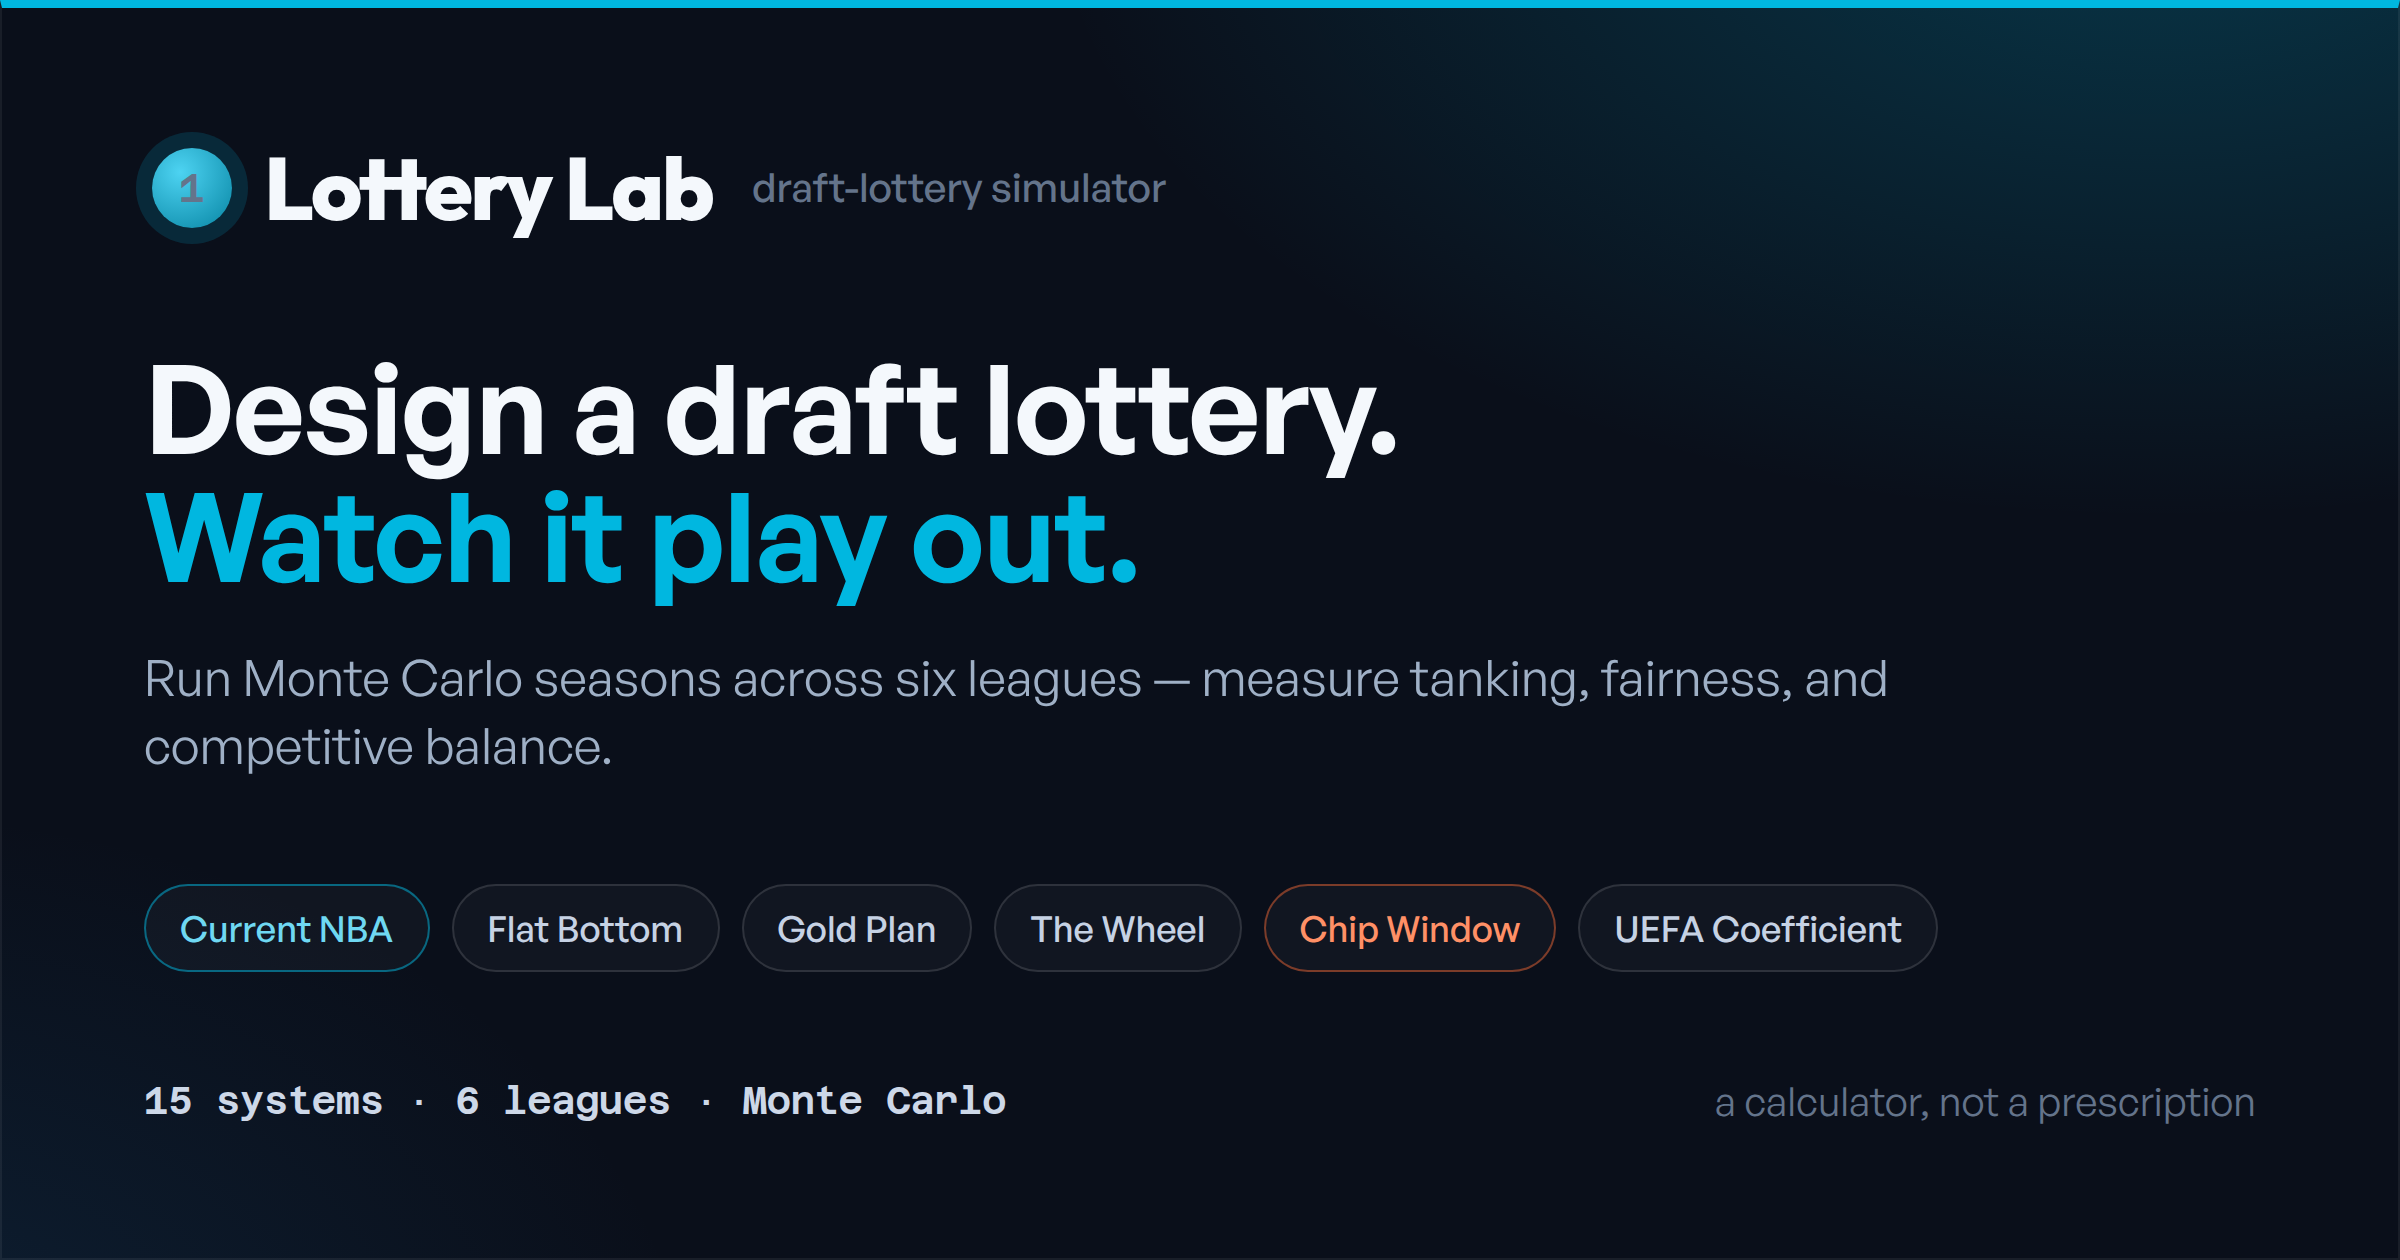
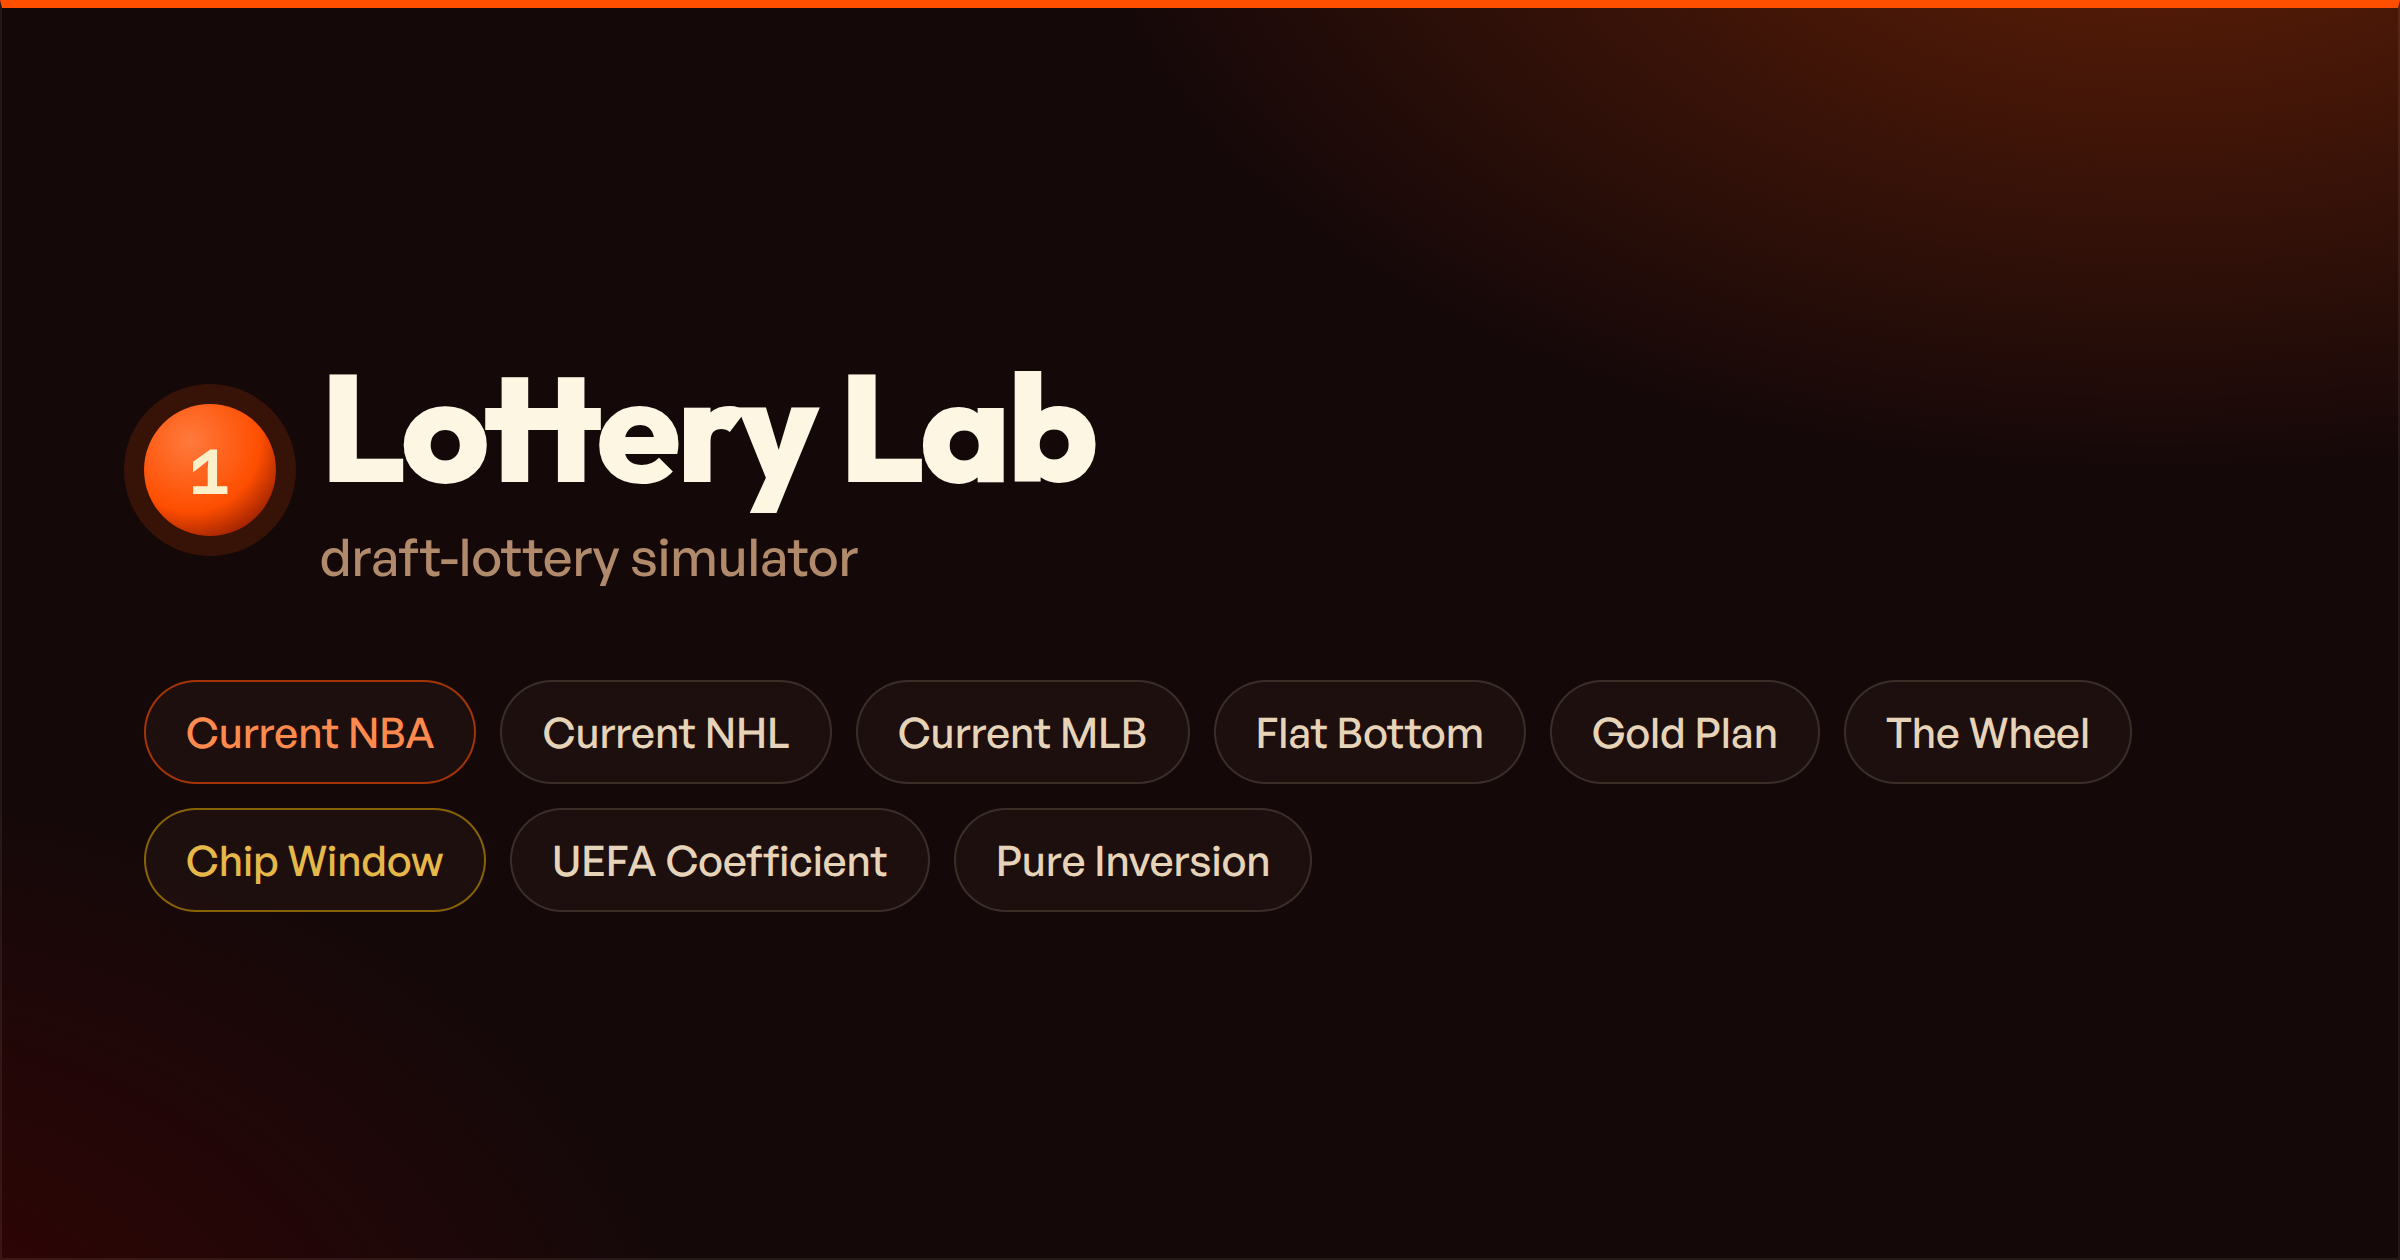
Lottery Lab palette + strip marketing/helper copy
Give Lottery Lab its own identity within the shared design system: a warm
palette of flame-orange (#fe4e00) accent, black-cherry (#570000) deep, and
lemon-chiffon (#faf0ca) highlight — retheming light (warm paper) and dark
(deep cherry-black) token sets, chart series colors, chip/pick ramps, native
range sliders (accent-color), the favicon, and the OG card.

Remove the marketing/punch/helper copy per request: the per-page hero
headlines and subtitles, the 'a calculator, not a prescription' tagline, the
'15 systems…' stat line, the verbose field hints and chart captions, and the
page intro paragraphs. Meta/OG descriptions trimmed to plain factual copy;
the OG card is now just the wordmark + system chips. Also fixes the Historical
copy to 'any real sports draft lottery'.

tsc clean; build verified; light + dark themes checked live.

Claude-Session: https://claude.ai/code/session_013eqjP4RGDTyh5RQjt1m6EY

diff --git a/src/ui/theme.css b/src/ui/theme.css
@@ -29,13 +29,17 @@
   --r-lg: 16px;
   --r-pill: 999px;
 
-  /* Brand + semantics (stable across themes) */
-  --brand: #00b7e0;
-  --brand-2: #1a659e;
-  --tangerine: #ff6b35;
-  --peach: #f7c59f;
-  --beige: #efefd0;
-  --steel: #004e89;
+  /* Brand + semantics (stable across themes) — Lottery Lab palette:
+     flame-orange accent, black-cherry deep, lemon-chiffon warm highlight. */
+  --brand: #fe4e00; /* flame-orange */
+  --brand-2: #570000; /* black-cherry */
+  --flame: #fe4e00;
+  --cherry: #570000;
+  --chiffon: #faf0ca; /* lemon-chiffon */
+  --tangerine: #fe4e00;
+  --peach: #faf0ca;
+  --beige: #faf0ca;
+  --steel: #570000;
   --baltic: #1a659e;
 
   --transition: 180ms cubic-bezier(0.4, 0, 0.2, 1);
@@ -45,76 +49,82 @@
 :root,
 :root[data-theme='light'] {
   color-scheme: light;
-  --bg: #f5f7fa;
-  --bg-grad: radial-gradient(1200px 600px at 100% -10%, rgba(0, 183, 224, 0.06), transparent 60%);
-  --surface: #ffffff;
-  --surface-2: #f1f4f8;
-  --surface-3: #e9edf3;
-  --border: rgba(15, 23, 42, 0.09);
-  --border-strong: rgba(15, 23, 42, 0.16);
-  --text: #0f172a;
-  --text-2: #4b5563;
-  --text-3: #8a97a8;
-  --brand-ink: #0785a3;
-  --success: #059669;
-  --success-bg: rgba(5, 150, 105, 0.1);
-  --warning: #d97706;
-  --warning-bg: rgba(217, 119, 6, 0.12);
-  --error: #e11d48;
-  --error-bg: rgba(225, 29, 72, 0.1);
-  --shadow-sm: 0 1px 2px rgba(15, 23, 42, 0.06), 0 1px 3px rgba(15, 23, 42, 0.05);
-  --shadow-md: 0 4px 12px rgba(15, 23, 42, 0.08), 0 2px 4px rgba(15, 23, 42, 0.04);
-  --shadow-lg: 0 12px 32px rgba(15, 23, 42, 0.12);
+  --bg: #fbf7ee; /* warm paper (lemon-chiffon tint) */
+  --bg-grad: radial-gradient(1200px 600px at 100% -10%, rgba(254, 78, 0, 0.07), transparent 60%);
+  --surface: #fffdf8;
+  --surface-2: #f6efe0;
+  --surface-3: #efe6d3;
+  --border: rgba(87, 0, 0, 0.1);
+  --border-strong: rgba(87, 0, 0, 0.18);
+  --text: #2a1712;
+  --text-2: #6b5445;
+  --text-3: #9c8877;
+  --brand-ink: #c43e00; /* darker flame for text/links */
+  --success: #0f766e;
+  --success-bg: rgba(15, 118, 110, 0.1);
+  --warning: #b45309;
+  --warning-bg: rgba(180, 83, 9, 0.12);
+  --error: #b91c1c;
+  --error-bg: rgba(185, 28, 28, 0.1);
+  --series-1: #fe4e00;
+  --series-2: #7a1122;
+  --shadow-sm: 0 1px 2px rgba(87, 0, 0, 0.06), 0 1px 3px rgba(87, 0, 0, 0.05);
+  --shadow-md: 0 4px 12px rgba(87, 0, 0, 0.08), 0 2px 4px rgba(87, 0, 0, 0.04);
+  --shadow-lg: 0 12px 32px rgba(87, 0, 0, 0.12);
 }
 
 /* ── Dark ── */
 @media (prefers-color-scheme: dark) {
   :root:not([data-theme='light']) {
     color-scheme: dark;
-    --bg: #0a0f1a;
-    --bg-grad: radial-gradient(1200px 600px at 100% -10%, rgba(0, 183, 224, 0.1), transparent 60%);
-    --surface: #121a2a;
-    --surface-2: #0f1626;
-    --surface-3: #1a2436;
-    --border: rgba(255, 255, 255, 0.08);
-    --border-strong: rgba(255, 255, 255, 0.16);
-    --text: #e6ecf5;
-    --text-2: #9fb0c6;
-    --text-3: #64748b;
-    --brand-ink: #4dd3f2;
+    --bg: #150809;
+    --bg-grad: radial-gradient(1200px 600px at 100% -10%, rgba(254, 78, 0, 0.12), transparent 60%);
+    --surface: #221113;
+    --surface-2: #1a0c0d;
+    --surface-3: #2e181a;
+    --border: rgba(250, 240, 202, 0.09);
+    --border-strong: rgba(250, 240, 202, 0.17);
+    --text: #f6ede0;
+    --text-2: #cbb6a8;
+    --text-3: #8f7a6d;
+    --brand-ink: #ff8a4d;
     --success: #34d399;
     --success-bg: rgba(52, 211, 153, 0.14);
     --warning: #fbbf24;
     --warning-bg: rgba(251, 191, 36, 0.14);
     --error: #fb7185;
     --error-bg: rgba(251, 113, 133, 0.14);
-    --shadow-sm: 0 1px 2px rgba(0, 0, 0, 0.3);
-    --shadow-md: 0 6px 18px rgba(0, 0, 0, 0.4);
-    --shadow-lg: 0 16px 40px rgba(0, 0, 0, 0.5);
+    --series-1: #ff6a2e;
+    --series-2: #b8c4d6;
+    --shadow-sm: 0 1px 2px rgba(0, 0, 0, 0.35);
+    --shadow-md: 0 6px 18px rgba(0, 0, 0, 0.45);
+    --shadow-lg: 0 16px 40px rgba(0, 0, 0, 0.55);
   }
 }
 :root[data-theme='dark'] {
   color-scheme: dark;
-  --bg: #0a0f1a;
-  --bg-grad: radial-gradient(1200px 600px at 100% -10%, rgba(0, 183, 224, 0.1), transparent 60%);
-  --surface: #121a2a;
-  --surface-2: #0f1626;
-  --surface-3: #1a2436;
-  --border: rgba(255, 255, 255, 0.08);
-  --border-strong: rgba(255, 255, 255, 0.16);
-  --text: #e6ecf5;
-  --text-2: #9fb0c6;
-  --text-3: #64748b;
-  --brand-ink: #4dd3f2;
+  --bg: #150809;
+  --bg-grad: radial-gradient(1200px 600px at 100% -10%, rgba(254, 78, 0, 0.12), transparent 60%);
+  --surface: #221113;
+  --surface-2: #1a0c0d;
+  --surface-3: #2e181a;
+  --border: rgba(250, 240, 202, 0.09);
+  --border-strong: rgba(250, 240, 202, 0.17);
+  --text: #f6ede0;
+  --text-2: #cbb6a8;
+  --text-3: #8f7a6d;
+  --brand-ink: #ff8a4d;
   --success: #34d399;
   --success-bg: rgba(52, 211, 153, 0.14);
   --warning: #fbbf24;
   --warning-bg: rgba(251, 191, 36, 0.14);
   --error: #fb7185;
   --error-bg: rgba(251, 113, 133, 0.14);
-  --shadow-sm: 0 1px 2px rgba(0, 0, 0, 0.3);
-  --shadow-md: 0 6px 18px rgba(0, 0, 0, 0.4);
-  --shadow-lg: 0 16px 40px rgba(0, 0, 0, 0.5);
+  --series-1: #ff6a2e;
+  --series-2: #b8c4d6;
+  --shadow-sm: 0 1px 2px rgba(0, 0, 0, 0.35);
+  --shadow-md: 0 6px 18px rgba(0, 0, 0, 0.45);
+  --shadow-lg: 0 16px 40px rgba(0, 0, 0, 0.55);
 }
 
 /* Category accents (module chips / cards) */

diff --git a/src/App.tsx b/src/App.tsx
@@ -11,21 +11,6 @@ const ROUTES: { id: Route; hash: string; label: string }[] = [
   { id: 'historical', hash: '#/historical', label: 'Historical' },
 ]
 
-const HEROES: Record<Route, { h1: string; p: string }> = {
-  simulator: {
-    h1: 'Design a draft lottery. Watch it play out.',
-    p: 'Pick up to two lottery systems, choose a league, and run Monte Carlo seasons to see how each shapes tanking, fairness, and competitive balance.',
-  },
-  'chip-window': {
-    h1: 'The Chip Window.',
-    p: 'A betting-based draft mechanic where teams wager chips over the season’s final stretch. Final chips are the draft order — so tanking is structurally impossible.',
-  },
-  historical: {
-    h1: 'Replay any real lottery.',
-    p: 'Run a real NBA season’s standings through any lottery system thousands of times and compare the simulated odds to what actually happened.',
-  },
-}
-
 function routeFromHash(): Route {
   const h = location.hash || '#/'
   return ROUTES.find((r) => r.hash === h)?.id ?? 'simulator'
@@ -53,7 +38,6 @@ export function App() {
   }, [])
 
   const themeIcon = theme === 'dark' ? '☾' : theme === 'light' ? '☀' : '◐'
-  const hero = HEROES[route]
 
   return (
     <>
@@ -74,12 +58,7 @@ export function App() {
         </button>
       </header>
 
-      <div className="shell">
-        <div className="hero">
-          <h1>{hero.h1}</h1>
-          <p>{hero.p}</p>
-        </div>
-
+      <div className="shell" style={{ paddingTop: 'var(--s5)' }}>
         {route === 'simulator' && <Simulator />}
         {route === 'chip-window' && <ChipWindow />}
         {route === 'historical' && <Historical />}

diff --git a/src/pages/ChipWindow.tsx b/src/pages/ChipWindow.tsx
@@ -4,17 +4,17 @@ import { simulateChipWindowLeague, STATUS_LOTTERY, STATUS_PLAYIN, type CWResult,
 import { LineChart, Legend, type Series } from '../ui/charts'
 
 const STRATEGIES = ['standard', 'aggressive', 'conservative'] as const
-const PALETTE = ['#ff6b35', '#1a9e6e', '#1a659e', '#f472b6', '#a78bfa', '#00b7e0', '#f5c518', '#e11d48', '#10b981', '#8b5cf6', '#f97316', '#0ea5e9']
+const PALETTE = ['#fe4e00', '#570000', '#e0a800', '#1a659e', '#a83250', '#0d9488', '#8b5cf6', '#d1495b', '#2f855a', '#b45309', '#0ea5e9', '#c026d3']
 
 function chipColor(c: number): string {
-  if (c >= 200) return '#f5c518'
-  if (c >= 100) return 'var(--success)'
-  if (c >= 50) return '#ff6b35'
-  return 'var(--error)'
+  if (c >= 200) return '#e0a800' // gold
+  if (c >= 100) return '#fe4e00' // flame
+  if (c >= 50) return '#f39c6b' // soft flame
+  return 'var(--text-3)'
 }
 function pickClass(pick: number): string {
-  if (pick <= 3) return '#f5c518'
-  if (pick <= 8) return 'var(--brand)'
+  if (pick <= 3) return '#e0a800' // gold — top picks
+  if (pick <= 8) return 'var(--brand)' // flame
   return 'var(--text-3)'
 }
 
@@ -64,10 +64,6 @@ export function ChipWindow() {
       <div className="card">
         <div className="card__head"><span className="card__title">Chip window</span></div>
         <div className="card__body">
-          <p className="hint" style={{ margin: 0 }}>
-            Over the season's final {nights} games, every team wagers chips each night — winner takes the opponent's
-            stake. Among lottery teams, final chips <strong>are</strong> the draft order. Tanking is impossible.
-          </p>
           <div className="field">
             <label>Seasons — {seasonsN}</label>
             <input type="range" min={1} max={15} step={1} value={seasonsN} onChange={(e) => setSeasonsN(Number(e.target.value))} />

diff --git a/index.html b/index.html
@@ -5,12 +5,12 @@
     <meta name="viewport" content="width=device-width, initial-scale=1.0" />
     <link rel="icon" type="image/svg+xml" href="/favicon.svg" />
     <link rel="apple-touch-icon" href="/favicon.svg" />
-    <meta name="theme-color" content="#00b7e0" />
+    <meta name="theme-color" content="#fe4e00" />
 
     <title>Lottery Lab — Draft Lottery Simulator</title>
     <meta
       name="description"
-      content="Design a draft lottery, run Monte Carlo seasons, and measure tanking, fairness, and competitive balance across the NBA, NHL, MLB, WNBA, PWHL and MLS. A calculator, not a prescription."
+      content="Simulate draft lotteries across the NBA, NHL, MLB, WNBA, PWHL and MLS. Run Monte Carlo seasons and measure tanking, fairness, and competitive balance."
     />
 
     <!-- Open Graph / social share card. Absolute og:image so scrapers resolve it. -->
@@ -20,7 +20,7 @@
     <meta property="og:title" content="Lottery Lab — Draft Lottery Simulator" />
     <meta
       property="og:description"
-      content="Design a draft lottery, run Monte Carlo seasons, and measure tanking, fairness, and competitive balance across six leagues. A calculator, not a prescription."
+      content="Simulate draft lotteries across six leagues — run Monte Carlo seasons and measure tanking, fairness, and competitive balance."
     />
     <meta property="og:image" content="https://lottery.capbuffet.com/og-image.png" />
     <meta property="og:image:width" content="1200" />
@@ -31,7 +31,7 @@
     <meta name="twitter:title" content="Lottery Lab — Draft Lottery Simulator" />
     <meta
       name="twitter:description"
-      content="Design a draft lottery, run Monte Carlo seasons, and measure tanking and fairness across six leagues."
+      content="Simulate draft lotteries across six leagues — Monte Carlo seasons, tanking, fairness, and competitive balance."
     />
     <meta name="twitter:image" content="https://lottery.capbuffet.com/og-image.png" />
   </head>

diff --git a/src/pages/Simulator.tsx b/src/pages/Simulator.tsx
@@ -2,7 +2,7 @@ import { useMemo, useState } from 'react'
 import { ALL_SYSTEMS, LEAGUE_LIST, getLeague, monteCarlo, type LeagueConfig, type MetricsBundle } from '../engine'
 import { GroupedBars, Legend, LineChart, type Series } from '../ui/charts'
 
-const COLORS = ['#ff6b35', '#1a9e6e']
+const COLORS = ['var(--series-1)', 'var(--series-2)']
 
 interface MetricCard {
   label: string
@@ -125,12 +125,10 @@ export function Simulator() {
                 <button key={l.id} className="chip" data-on={l.id === leagueId} onClick={() => setLeagueId(l.id)}>{l.name}</button>
               ))}
             </div>
-            <span className="hint">Scales team count, schedule, and playoff structure automatically.</span>
           </div>
           <div className="field">
             <label>Monte Carlo runs — {runs}</label>
             <input type="range" min={5} max={200} step={5} value={runs} onChange={(e) => setRuns(Number(e.target.value))} />
-            <span className="hint">More runs = more accurate, slower.</span>
           </div>
           <div className="field">
             <label>Seasons per run — {seasons}</label>
@@ -139,7 +137,6 @@ export function Simulator() {
           <div className="field">
             <label>Seed</label>
             <input type="text" placeholder="blank = random" value={seed} onChange={(e) => setSeed(e.target.value)} />
-            <span className="hint">Same seed = same results.</span>
           </div>
           <button className="btn btn--primary" disabled={running || selected.length === 0} onClick={run}>
             {running ? 'Simulating…' : 'Run simulation →'}
@@ -176,7 +173,6 @@ export function Simulator() {
               <div className="card__body">
                 <LineChart series={effortSeries} yMin={0.3} yMax={1.0} yTicks={7} xLabels={effortSeries[0]?.values.map((_, i) => `W${i + 1}`)} />
                 <Legend items={legend} />
-                <span className="hint">1.0 = full effort · below 1.0 = tanking.</span>
               </div>
             </div>
 
@@ -185,7 +181,6 @@ export function Simulator() {
               <div className="card__body">
                 <GroupedBars series={winSeries} yMax={maxWins} xLabels={winSeries[0]?.values.map((_, i) => `${i + 1}`)} cutIndex={lg.playoffSpots} cutLabel="playoff cut" />
                 <Legend items={legend} />
-                <span className="hint">Rank 1 = best record · flatter curve = more balanced.</span>
               </div>
             </div>
 

diff --git a/src/pages/Historical.tsx b/src/pages/Historical.tsx
@@ -3,7 +3,7 @@ import { ALL_SYSTEMS } from '../engine'
 import { runHistoricalLottery, type HistoricalReport } from '../engine/historical'
 import { HISTORICAL_SEASONS, SEASON_KEYS } from '../data/historicalSeasons'
 
-const COLORS = ['#ff6b35', '#1a9e6e']
+const COLORS = ['var(--series-1)', 'var(--series-2)']
 // Systems that draw a weighted lottery (the historical proxy is meaningful for these).
 const LOTTERY_SYSTEMS = ['Current NBA', 'Flat Bottom', 'Play-In Boost', 'UEFA Coefficient', 'RCL', 'Pure Inversion', 'Pre-2019 Legacy NBA', 'Equal Odds', 'Top-4 Only Lottery', 'Current NHL', 'Current MLB']
 
@@ -36,7 +36,6 @@ export function Historical() {
       <div className="card">
         <div className="card__head"><span className="card__title">Historical season</span></div>
         <div className="card__body">
-          <p className="hint" style={{ margin: 0 }}>Replay a real NBA lottery ({SEASON_KEYS[0]} – {SEASON_KEYS[SEASON_KEYS.length - 1]}) thousands of times under any system and compare to what actually happened.</p>
           <div className="field">
             <label>Season</label>
             <select value={seasonKey} onChange={(e) => setSeasonKey(e.target.value)} style={{ padding: '8px 10px', borderRadius: 'var(--r-sm)', border: '1px solid var(--border-strong)', background: 'var(--surface-2)', color: 'var(--text)', fontFamily: 'var(--font-mono)', fontSize: 13 }}>

diff --git a/src/ui/lottery.css b/src/ui/lottery.css
@@ -115,6 +115,7 @@
 .field .hint { font-size: 11px; color: var(--text-3); }
 .field input[type='text'],
 .field input[type='range'] { width: 100%; }
+input[type='range'] { accent-color: var(--brand); }
 .field input[type='text'] {
   padding: 8px 10px;
   border: 1px solid var(--border-strong);